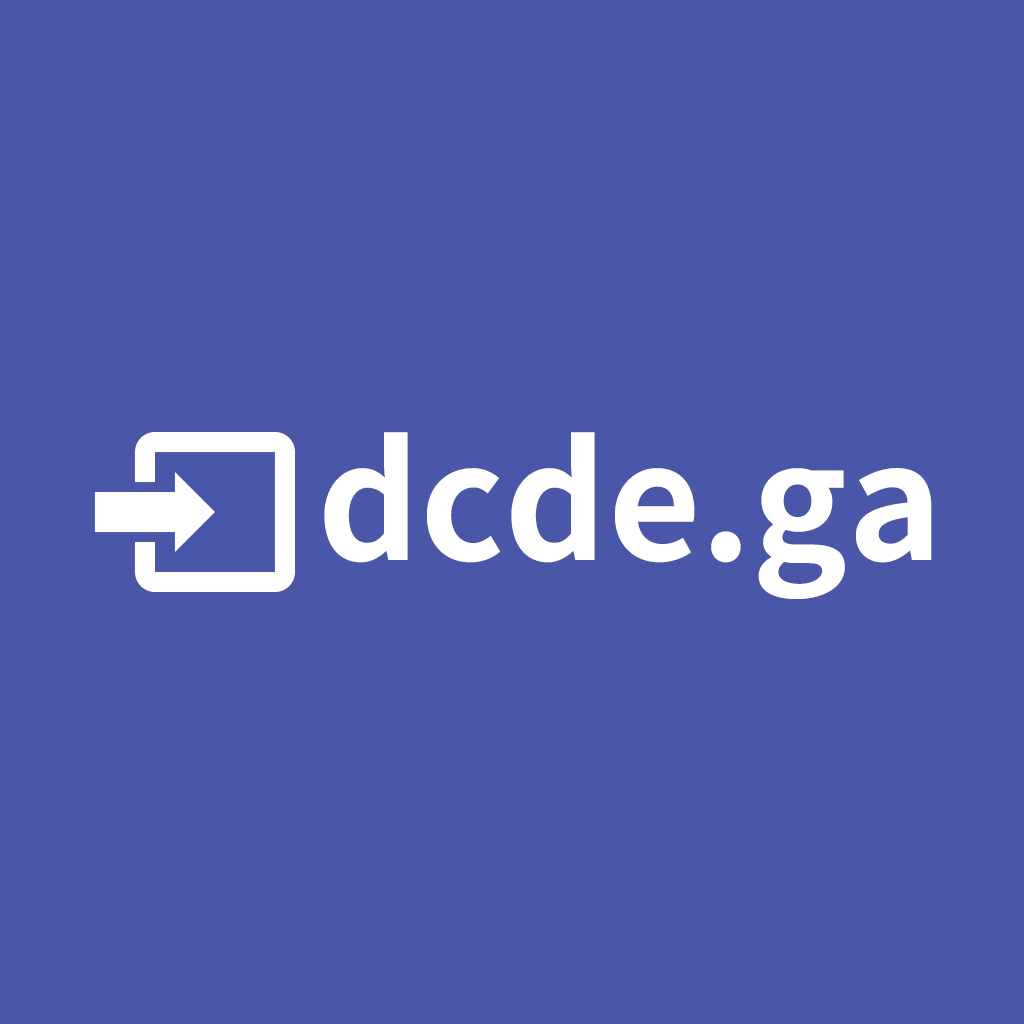
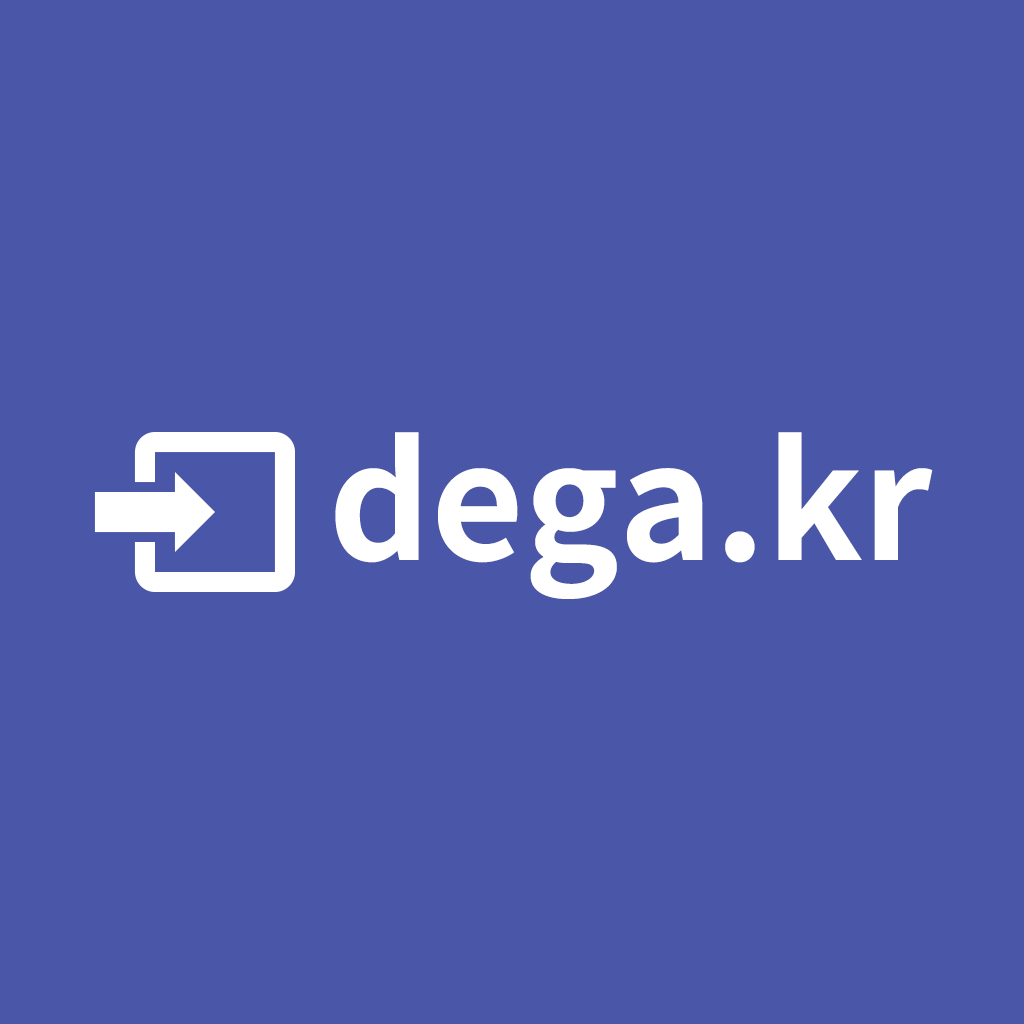
:truck: dcde.ga -> dega.kr (img resources)

Changed region(s): [[0.3125, 0.4062, 0.9375, 0.5938]]

diff --git a/templates/layout.html b/templates/layout.html
@@ -18,7 +18,7 @@
   <meta name="viewport" content="width=device-width, user-scalable=no, initial-scale=1.0, maximum-scale=1.0, minimum-scale=1.0">
   <meta http-equiv="X-UA-Compatible" content="ie=edge">
   <meta name="description" content="데스티니 가디언즈 클랜원 합류 코드 쉽게 복사하기">
-  <meta name="keywords" content="데스티니,데스티니 가디언즈,데스티니 2,Destiny 2">
+  <meta name="keywords" content="데스티니,데스티니 가디언즈,데스티니 2,Destiny 2,합류코드">
   <!-- opengraph -->
   <meta property="og:type" content="website">
   <meta property="og:title" content="{{ title_s }}">
@@ -56,7 +56,7 @@
   </main>
   <script src="https://code.jquery.com/jquery-3.5.1.min.js" integrity="sha256-9/aliU8dGd2tb6OSsuzixeV4y/faTqgFtohetphbbj0=" crossorigin="anonymous"></script>
   <script src="https://cdnjs.cloudflare.com/ajax/libs/clipboard.js/2.0.6/clipboard.min.js"></script>
-  <script src="/static/dcdega.js"></script>
+  <script src="/static/degakr.js"></script>
   {% block script %}{% endblock %}
 </body>
 </html>
